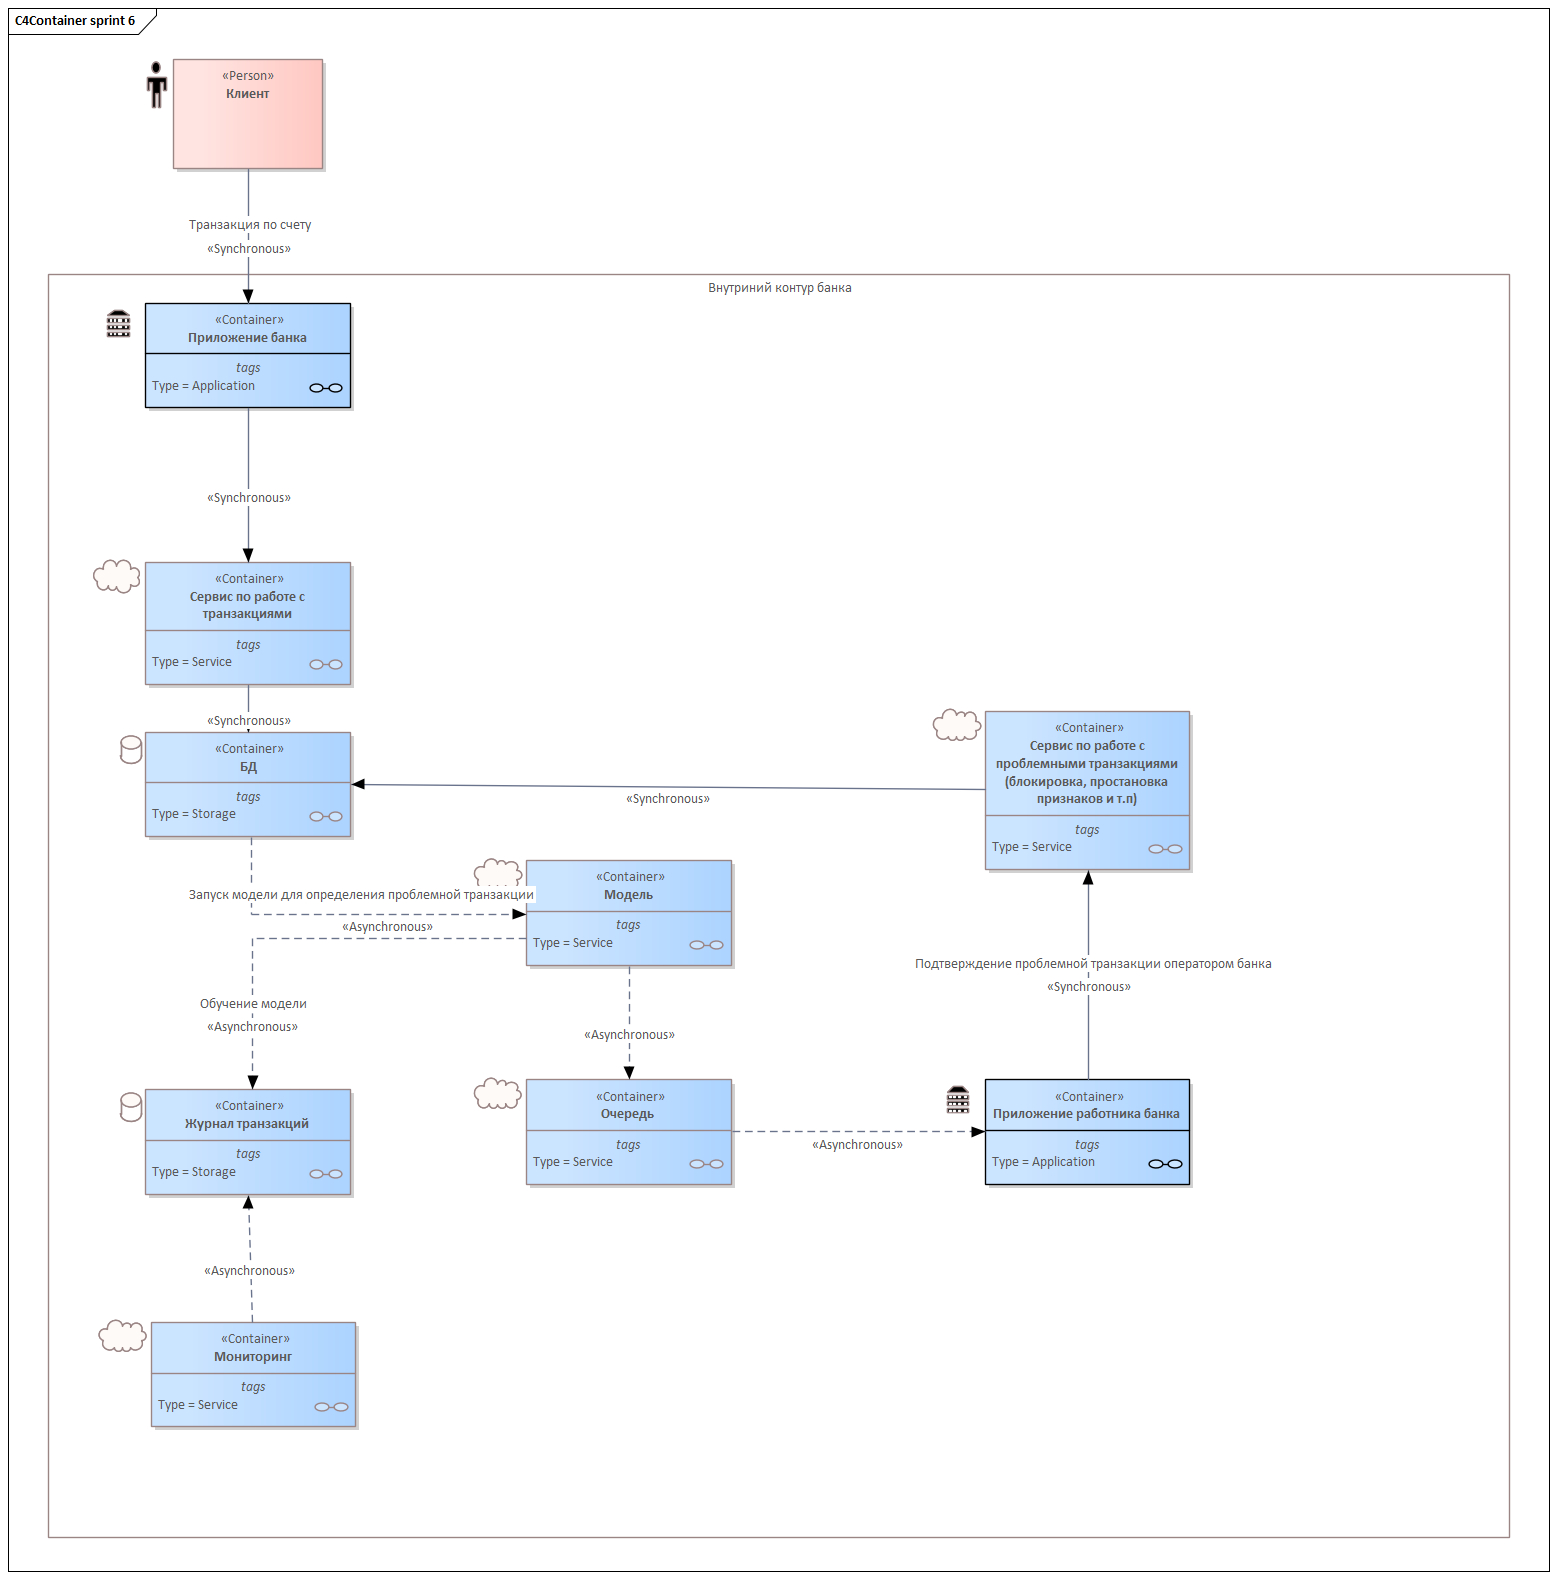
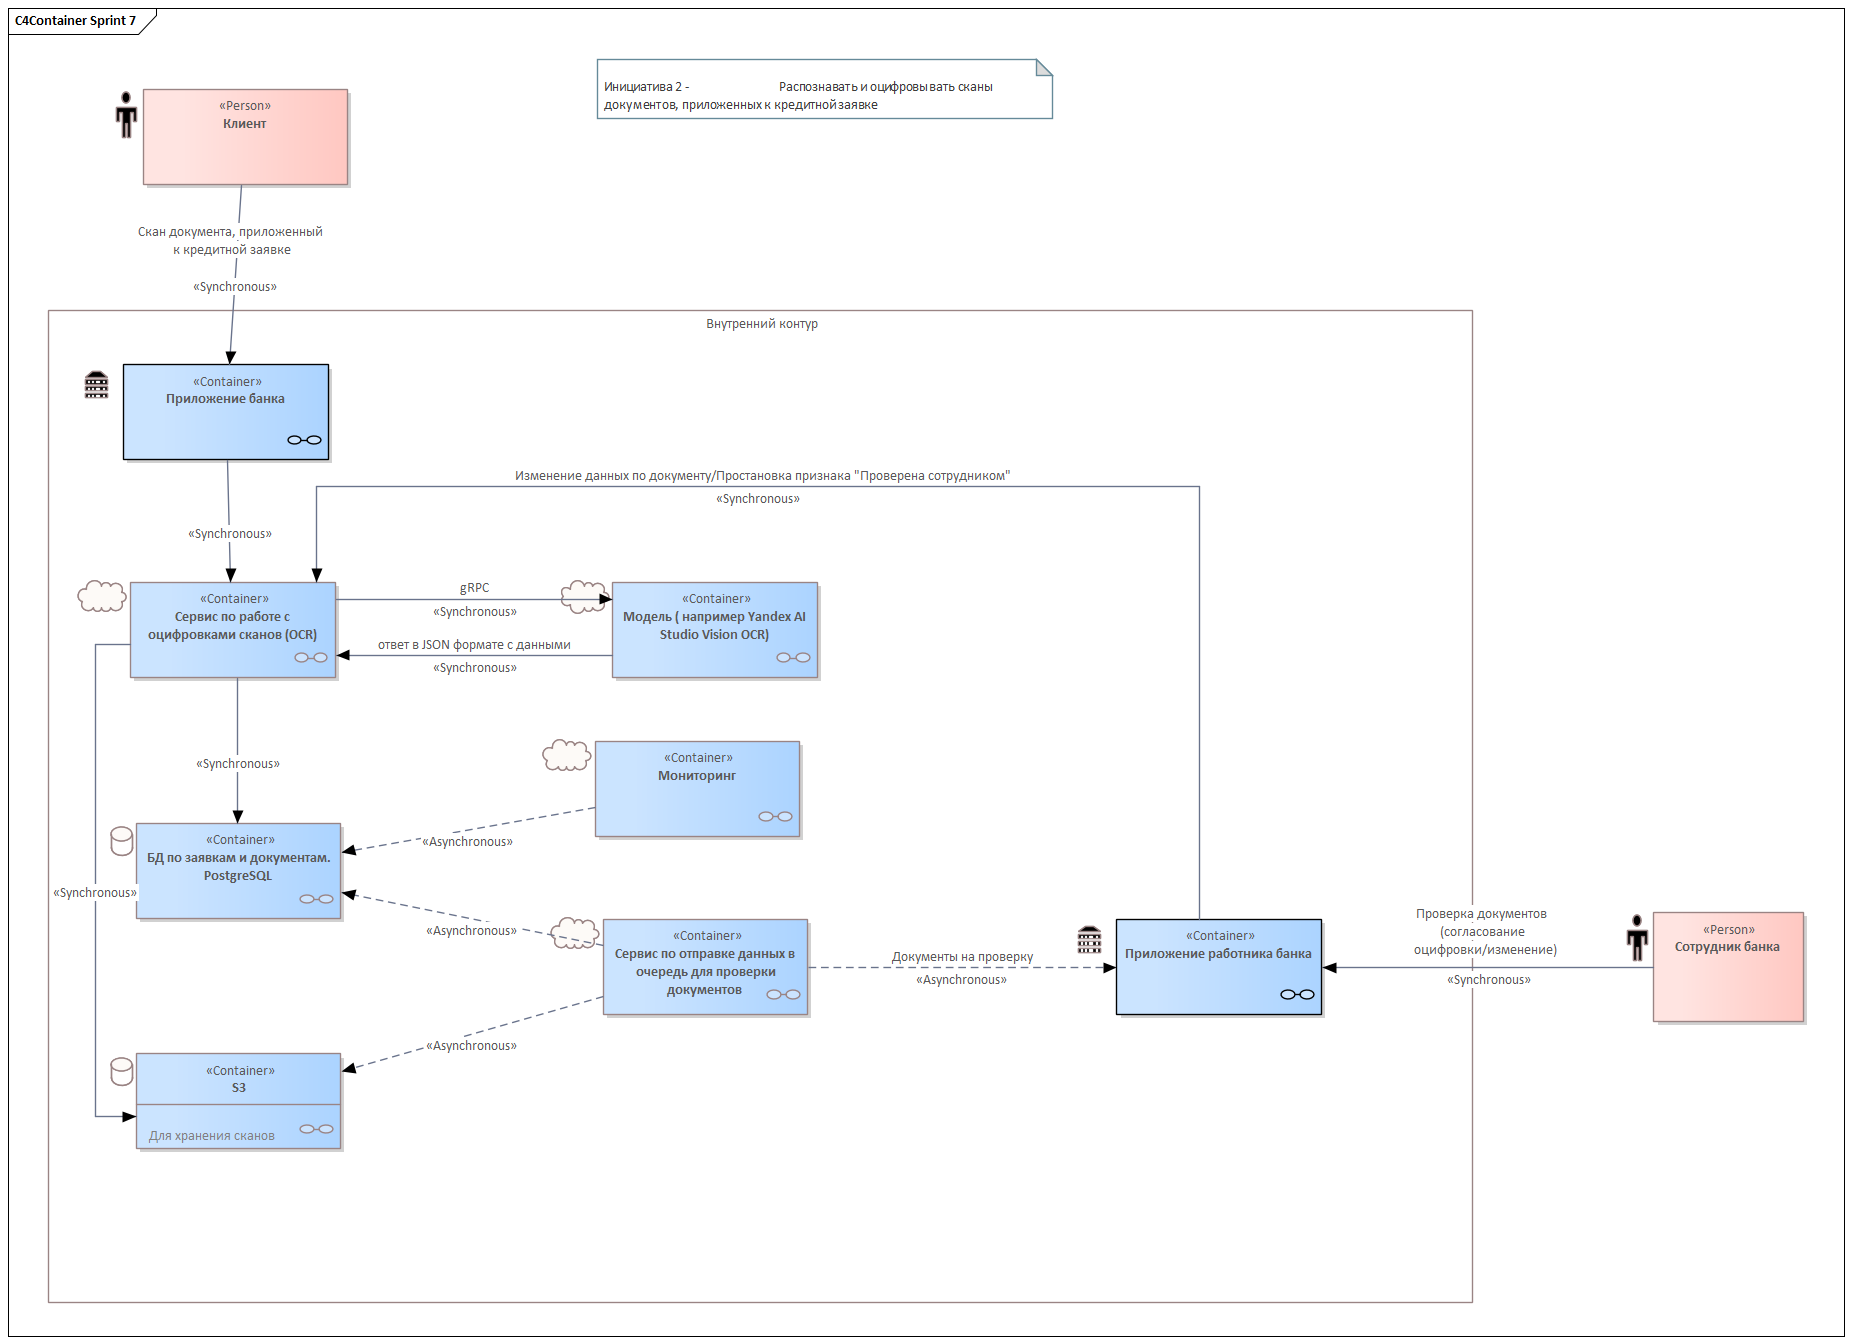
Иттерация 2 сдачи проекта

diff --git a/Task2/Паспорт инициативы (2-5).md b/Task2/Паспорт инициативы (2-5).md
@@ -8,9 +8,9 @@
 	Входные данные - операции по счетам (транзакции)
 	Результат модели - операции помеченные признаками эскалации от модели
 	Результат для бизнеса - Сотрудник получает сигнал о подозрительных операциях
-	Дальнейшие действия - На основе результата - блокируется подозрительная активность - Сотрудник банка (либо в автоматическом режиме) сообщается клиенту о подозрительных операциях со счетом
+	Дальнейшие действия - На основе результата дается приоритет о том, что данная активность является подозрительной - далее сотрудник банка (либо в автоматическом режиме) сообщается клиенту о подозрительных операциях со счетом
 	Источник правильного ответа - действия клиентов
-	Роль правил и человека - указано в "Дальнейшие действия"
+	Роль правил и человека - Сотрудник в приоритете берет в работу те разборы, которые пришли с меткой о подозрительности транзакции
 	Открытые вопросы - на основании чего вообще выявляются подозрительные операции? нет бизнес требований в данной части (мб на основании частого снятия одной и той же суммы, перевод лицам которые попадают под категорию "мошенники" и т.п)
 Качество 
 	Бизнес-метрика - кол-во подозрительно выявленных операций по счетам клиентов
@@ -31,8 +31,8 @@
 	Разметка - бизнес должен сделать разметку, т.е определеить по правила - например "Если раз в час списывается определеная сумма денег - помечать операция как подозрительная"
 	Смещение отбора - метки получили данные операции, т.к были отобраны моделью на основании правил и закономерностей - остальные не попали под критерии отбора
 	Репрезентативность - нет ответа на данный вопрос
-	Объем - конкретный объем не определен в текущем ТЗ 
-	Качество - информации о качестве данных нет
+	Объем - 35 000 операций
+	Качество - По факту формат транзакций для всех одинаковый
 	Право использовать - правовое хранение счетов и трнзакций есть и ограничение по передачи и хранению тоже - идти к юристам
 	Вердикт - не хватает данных о выявлении подозрительных операций, критерии успешности, необходимо получить доступ. Вердикт - GAP с планом
 Эксперимент
@@ -61,11 +61,11 @@
 	Бизнес метрика - кол-во загруженных сканов без коректировки пользователем
 	Положительный класс - ловим кол-во "криво" оцифрованных сканов
 	Метрика под решение - кол-во загруженных сканов без коректировки пользователем
-	baseline - должно быть определено бизнесом 
-	Проверочная выборка - должен решить бизнес
-	Рабочая точка - должен решить бизнес
-	Показатели в этой точке - решение за бизнесом
-	Цена ошибок - тоже за бизнесом, т.к нет понимания критические точки в части ошибка оцифровки и ошибка пользователя который не просмотрел и доверился модели
+	baseline - сравниваем модель с текущим процессом оцифровки пользователем 
+	Проверочная выборка - Предложил бы взять слепок БД с боевого контура и проверить на данных там
+	Рабочая точка - предложил бы в 99 процентиль
+	Показатели в этой точке - Если модель провела оцифровку, но с не увереностью успешности - то помечает признаком для детального рассмотрения сотрудником
+	Цена ошибок - Каждая ошибка от модели должна быть проверена сотрудинком
 	Guardrails - ухудшится показатели операций, т.е уменьшение качества оцифровки 
 Данные 
 	Решение - проверка действий модели ползователем - т.е проверка того, что оцифровала модель - и исправления
@@ -106,10 +106,10 @@
 	Положительный класс - ловим клиентов, которые собираются уйти
 	Метрика под решение - кол-во ушедших клиентов и кол-во оставленных, благодаря модели
 	baseline - определить бизнесу
-	Проверочная выборка - должна определиться бизнесом
-	Рабочая точка - должен решить бизнес
-	Показатели в этой точке  решение за бизнесом
-	Цена ошибок - тоже за бизнесом 
+	Проверочная выборка - Проверил бы на слепке БД из боевого контура
+	Рабочая точка - если получится проходить в 70 процентиль считаю будет успех
+	Показатели в этой точке - По выбранным метрикам получаем статисики в части ушедших клиентов. На сотрудников ложится нагрузка по сохранению клиентов в банке
+	Цена ошибок - Потеря клиентов - удар по репутации банка + уменьшение прибыли
 	Guardrails - ухудшится показатели определения уходящих клиентов
 Данные 
 	Решение - история ушедших клиентов и причины ухода
@@ -118,7 +118,7 @@
 	Источник правильного ответа - эталон появляется, когда найденные клиенты подвержены критериям для ухода из банка
 	Доступность признаков в проде - да, поля будут известны в момент принятия решения
 	Разметка - решение от бизнеса 
-	Смещение отбора - решение от бизнеса 
+	Смещение отбора - Метки получили данные исходя из закономерностей данных по ушедшим клиентам. Остальные данные не попали под критерии отбора
 	Репрезентативность - решение от бизнеса 
 	Объем - конктеный объем не определен в текущей задаче
 	Качество - инфомрации о качестве нет

diff --git a/Task4/ADR.md b/Task4/ADR.md
@@ -23,3 +23,23 @@ ADR 02
 	Стоимость единицы выше эффекта
 Пересмотр
 	При росте потока, изменения цен, смене версии модели у вендора, изменение законодательства
+
+ADR 03
+Контекст
+	Выбор модели для OCR
+Решение
+	Выбираем модель Yandex AI Studio Vision OCR
+Экономика 
+	Выбор существующей модели финансово выходит дешевле, чем разворачивать свою собственную
+Эффект
+	Рост результативности за счет уже изученной и проверенной модели
+Допущение
+	В оцифровках будут перс данные, но данная модель поддерживает безопасность данных
+
+ADR 04 
+Контекст
+	Выбор модели для анализа оттока клиентов банка
+Решение
+	Выбор решения приходится на модель Customer Churn Prediction
+Эффект
+	Стандартное решение для большинства банков и дешевле чем с нуля писать модель
